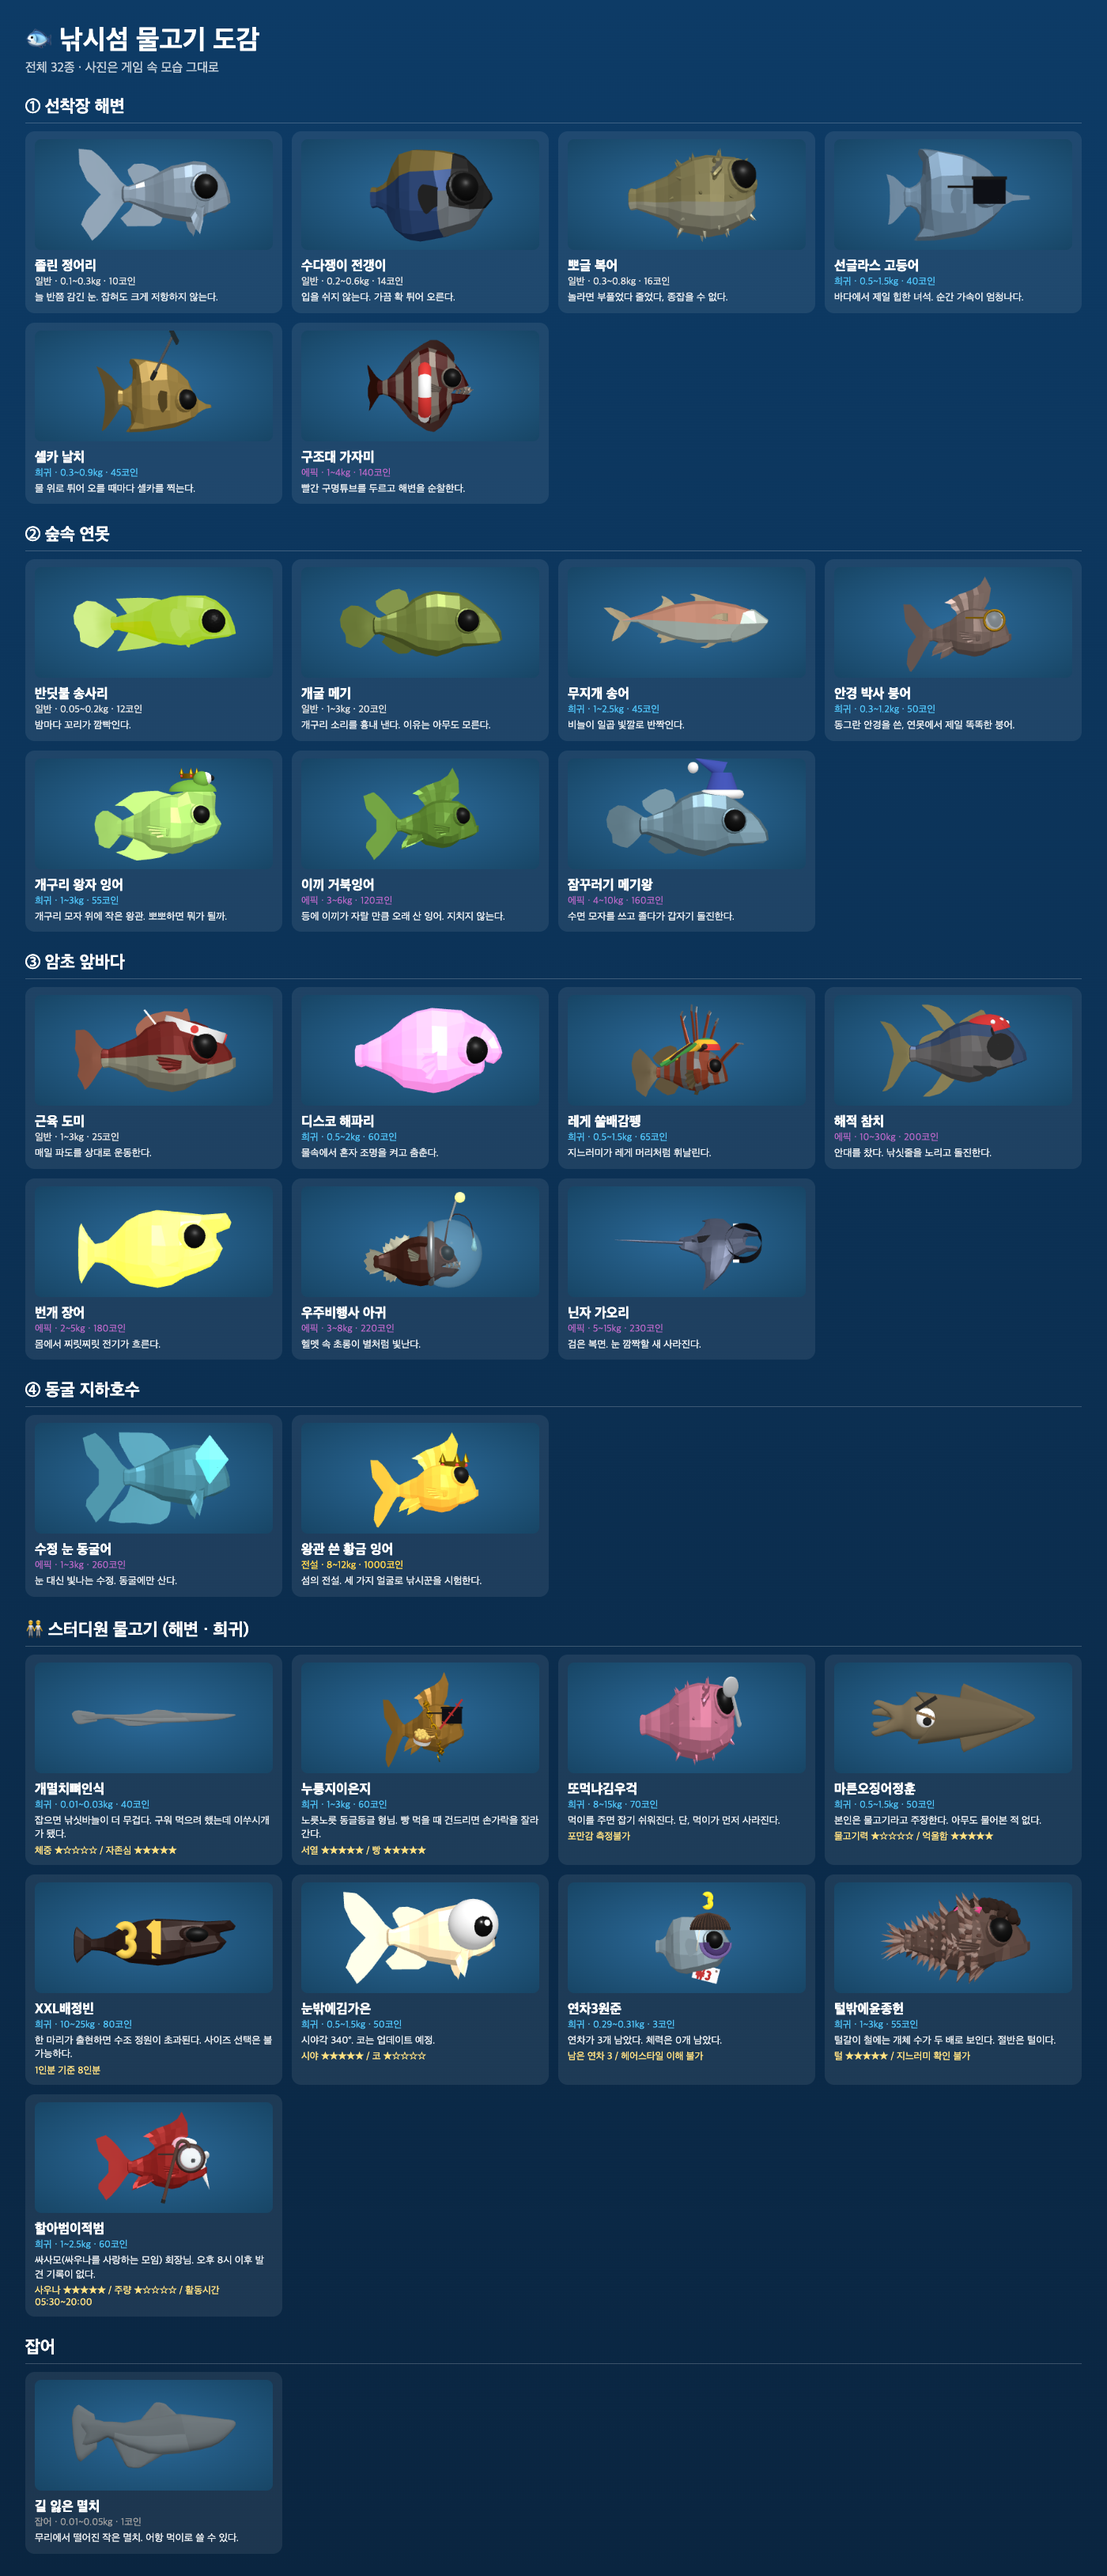
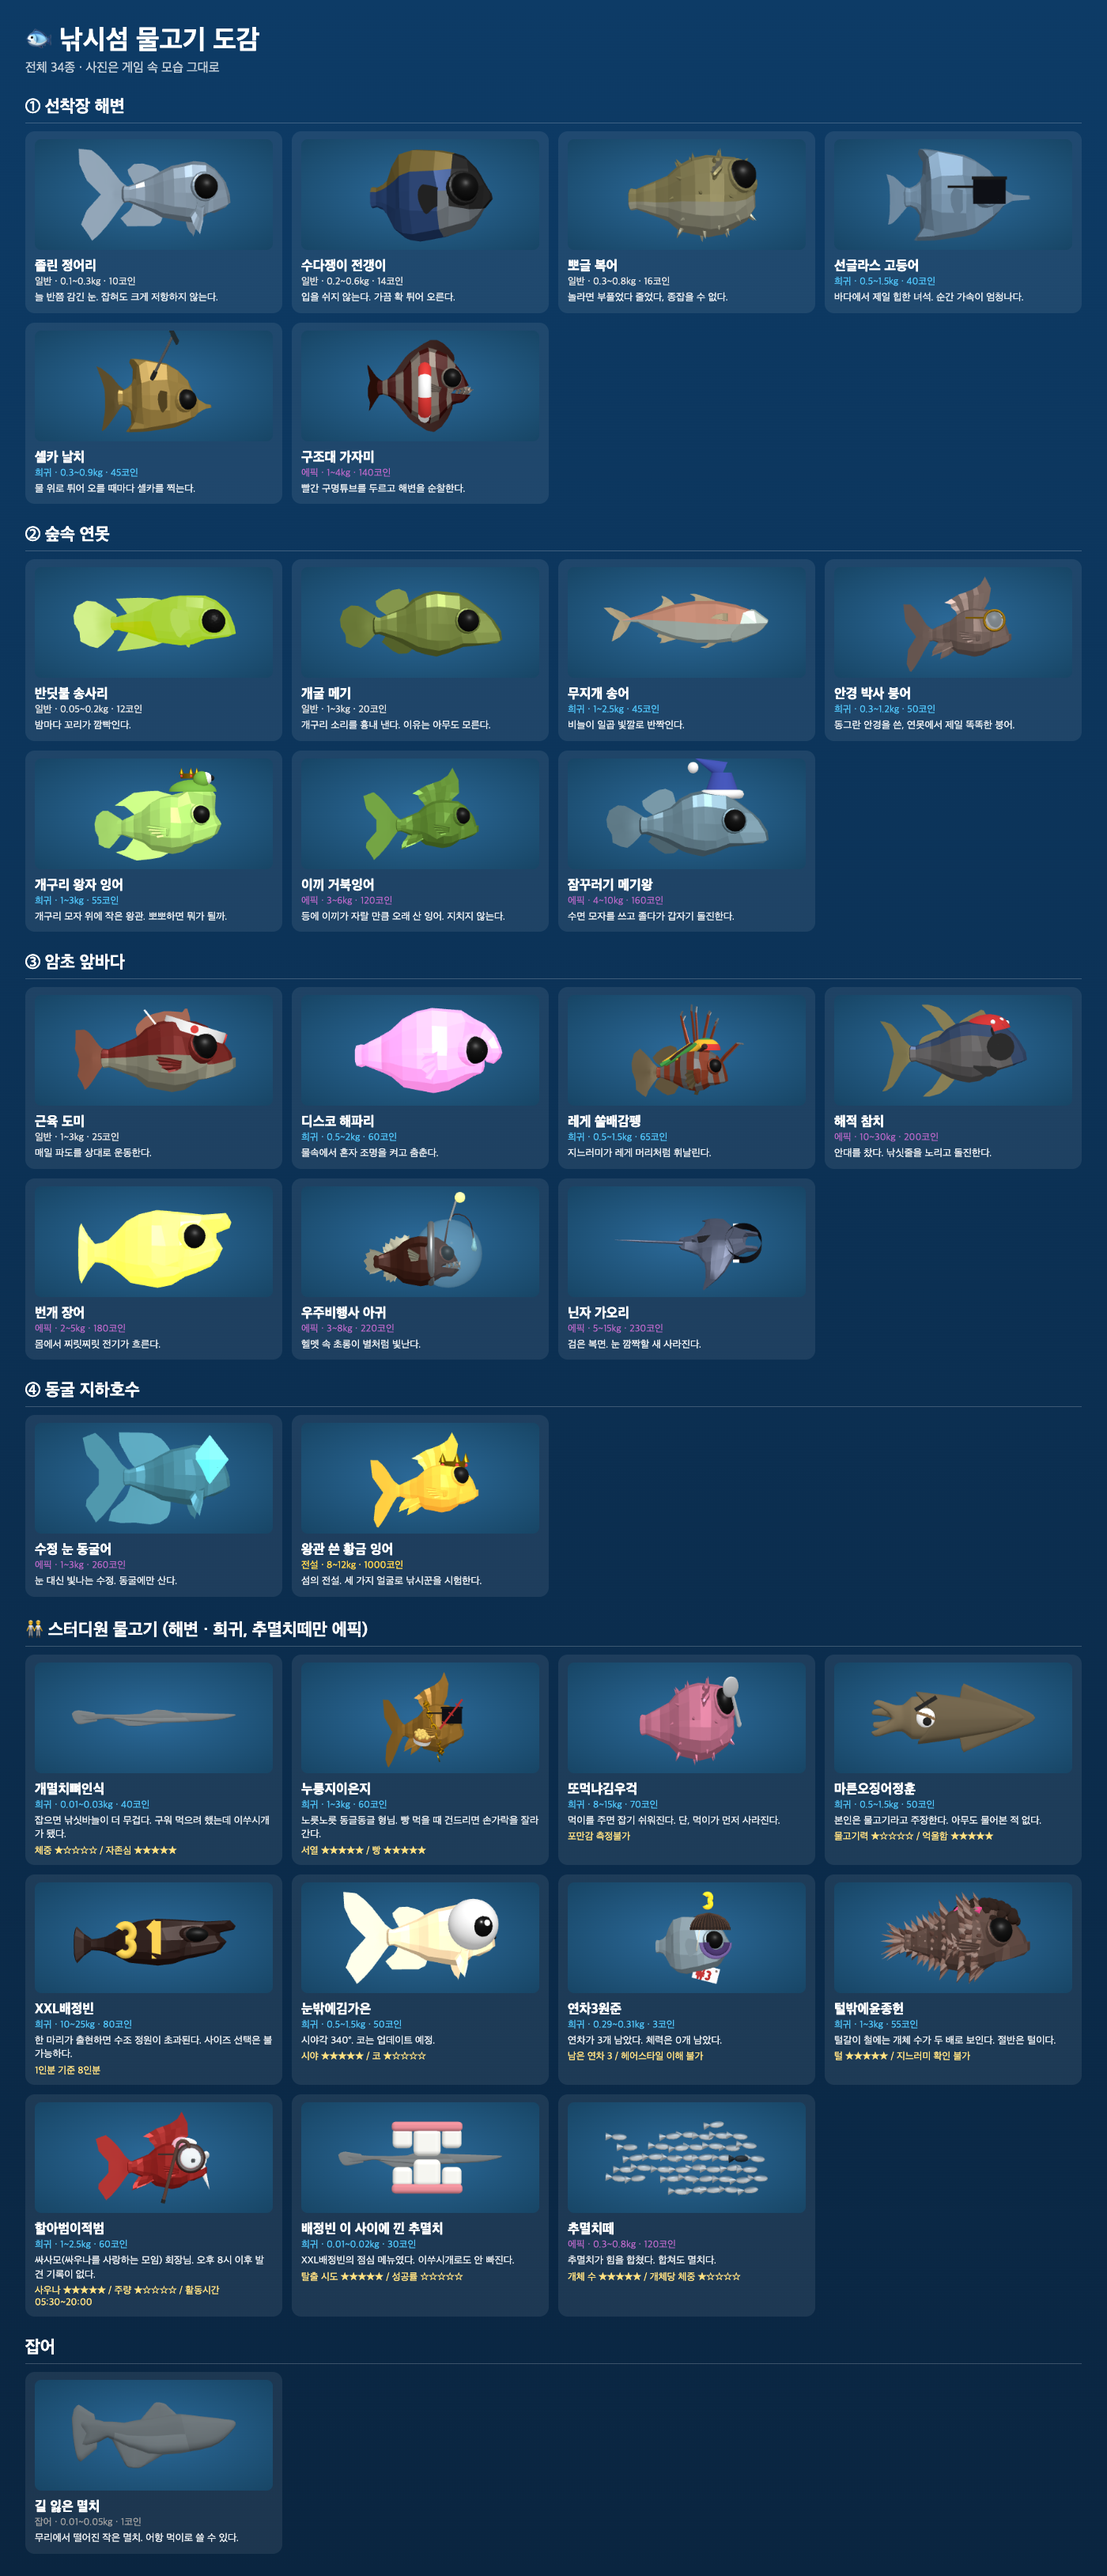
docs: 물고기 도감에 추멸치 파생 2종 추가
- fish-dex 사진 2장, README 표·확률 설명, 한 장짜리 도감 그림을 34종으로 갱신
- 설계 문서 8.4 에 두 어종과 해변 에픽 확률 변화를 적는다

Changed region(s): [[0.2457, 0.8063, 0.7371, 0.8993], [0.2457, 0.6202, 0.3379, 0.6512]]

diff --git a/docs/fish-dex/README.md b/docs/fish-dex/README.md
@@ -1,11 +1,12 @@
 # 낚시섬 물고기 도감
 
-섬에 사는 물고기 **32종** 전체 목록이에요. 사진은 게임 안의 사진 기능(`fishThumbnail`)으로 그린 것과 같아요.
+섬에 사는 물고기 **34종** 전체 목록이에요. 사진은 게임 안의 사진 기능(`fishThumbnail`)으로 그린 것과 같아요.
 
 - 희귀도: 잡어 · 일반 · 희귀 · 에픽 · 전설
 - 싸움 방식: **돌진**(가끔 세게 확 당김) · **지구전**(약하게 자주 당김) · **변덕**(언제 얼마나 당길지 모름) · 전설은 셋을 번갈아
 - 판매가는 무게가 무게 범위의 가운데일 때 기본가이고, 무거울수록 비싸요
 - 확률: 구역마다 일반 60 · 희귀 24 · 에픽 8 · 잡어 8 비율을 같은 희귀도 어종끼리 나눠 가져요(세게 던지면 희귀·에픽이 늘어요). 동굴은 전설이 주로 나와요
+- 해변 에픽은 구조대 가자미와 추멸치떼 둘이 해변 에픽 몫(8)을 반씩 나눠요. 해변 희귀는 13종이 희귀 몫(24)을 나눠요
 
 ## ① 선착장 해변
 
@@ -49,7 +50,7 @@
 | <img src="images/crystal-eye-cavefish.png" width="160"> | **수정 눈 동굴어**<br>`crystal-eye-cavefish` | 에픽 | 변덕 · 힘 8 | 1~3kg | 260 | 눈 대신 빛나는 수정. 동굴에만 산다. |
 | <img src="images/golden-crown-carp.png" width="160"> | **왕관 쓴 황금 잉어**<br>`golden-crown-carp` | 전설 | 세 가지를 번갈아 · 힘 10 | 8~12kg | 1000 | 섬의 전설. 세 가지 얼굴로 낚시꾼을 시험한다. |
 
-## 🧑🤝🧑 스터디원 물고기 (선착장 해변 · 희귀)
+## 🧑🤝🧑 스터디원 물고기 (선착장 해변 · 희귀, 추멸치떼만 에픽)
 
 스터디원들을 닮은 물고기들이에요. 이름 말장난 + 외형 + 쓸데없이 진지한 도감 설명이 포인트.
 
@@ -64,6 +65,8 @@
 | <img src="images/three-wonjun.png" width="160"> | **연차3원준**<br>`three-wonjun` | 희귀 | 변덕 · 힘 3 | 0.29~0.31kg | 3 | 연차가 3개 남았다. 체력은 0개 남았다.<br>_남은 연차 3 / 헤어스타일 이해 불가_ |
 | <img src="images/hairy-ajumma-jongheon.png" width="160"> | **털밖에윤종헌**<br>`hairy-ajumma-jongheon` | 희귀 | 지구전 · 힘 5 | 1~3kg | 55 | 털갈이 철에는 개체 수가 두 배로 보인다. 절반은 털이다.<br>_털 ★★★★★ / 지느러미 확인 불가_ |
 | <img src="images/grandpa-escapee.png" width="160"> | **할아범이적범**<br>`grandpa-escapee` | 희귀 | 돌진 · 힘 5 | 1~2.5kg | 60 | 싸사모(싸우나를 사랑하는 모임) 회장님. 오후 8시 이후 발견 기록이 없다.<br>_사우나 ★★★★★ / 주량 ★☆☆☆☆ / 활동시간 05:30~20:00_ |
+| <img src="images/stuck-anchovy-chu.png" width="160"> | **배정빈 이 사이에 낀 추멸치**<br>`stuck-anchovy-chu` | 희귀 | 변덕 · 힘 2 | 0.01~0.02kg | 30 | XXL배정빈의 점심 메뉴였다. 이쑤시개로도 안 빠진다.<br>_탈출 시도 ★★★★★ / 성공률 ☆☆☆☆☆_ |
+| <img src="images/anchovy-school-chu.png" width="160"> | **추멸치떼**<br>`anchovy-school-chu` | 에픽 | 변덕 · 힘 6 | 0.3~0.8kg | 120 | 추멸치가 힘을 합쳤다. 합쳐도 멸치다.<br>_개체 수 ★★★★★ / 개체당 체중 ★☆☆☆☆_ |
 
 ## 잡어
 

diff --git a/docs/superpowers/specs/2026-10-22-aquarium-view-fish-variety-design.md b/docs/superpowers/specs/2026-10-22-aquarium-view-fish-variety-design.md
@@ -145,3 +145,13 @@ public/models/            (추가) 새 CC0 물고기 모델, CREDITS.md
 | grandpa-escapee | 할아범이적범 | 사우나에서 막 나온 새빨간 얼굴, 양머리 수건, 흰 수염, 돋보기안경, 지팡이 | 싸사모(싸우나를 사랑하는 모임) 회장님. 오후 8시 이후 발견 기록이 없다. | 사우나 ★★★★★ / 주량 ★☆☆☆☆ / 활동시간 05:30~20:00 | 돌진, 힘 5 |
 
 - 무게·가격이 표에 없는 것은 희귀 기본값(0.5~2kg, 50코인 안팎)으로 정한다.
+
+### 8.4 추가: 추멸치 파생 2종 (2026-10-23 요청)
+
+| id | 이름 | 희귀도 | 생김새 | 설명 | 쓸데없는 스탯 | 특징 |
+|---|---|---|---|---|---|---|
+| stuck-anchovy-chu | 배정빈 이 사이에 낀 추멸치 | 희귀 | 개멸치뼈인식처럼 실같이 얇은 은빛 몸(0.9배)을 큰 앞니 한 쌍이 위아래에서 물고 있다 (새 소품 `clampTeeth`: 둥근 흰 앞니 + 양옆 짧은 이 + 분홍 잇몸) | XXL배정빈의 점심 메뉴였다. 이쑤시개로도 안 빠진다. | 탈출 시도 ★★★★★ / 성공률 ☆☆☆☆☆ | 0.01~0.02kg, 30코인, 변덕, 힘 2 |
+| anchovy-school-chu | 추멸치떼 | 에픽 | 작은 멸치 40마리 안팎이 갈라진 꼬리·타원 몸통의 큰 물고기 모양으로 모였다, 눈 자리는 까만 대장 멸치 (새 소품 `anchovySchool`: 원래 몸은 숨기고 멸치 한 마리 지오메트리를 나눠 쓴다. 멸치마다 가까운 뼈에 붙어 몸을 따라 휘고 저마다 꼬리를 흔든다) | 추멸치가 힘을 합쳤다. 합쳐도 멸치다. | 개체 수 ★★★★★ / 개체당 체중 ★☆☆☆☆ | 0.3~0.8kg, 120코인, 변덕, 힘 6 |
+
+- 확률: 해변 에픽은 원래 구조대 가자미 혼자였다. 희귀도 묶음 방식이라 해변 에픽 몫 전체는 그대로이고 가자미와 추멸치떼가 반씩 나눈다 (가자미 확률은 절반이 된다). 해변 희귀는 13종이 나눠 가진다.
+- `HIDES_PART` 에 몸 전체(`'body'`)를 숨기는 값을 더했다 (멸치떼). 사진은 두 어종 모두 소품까지 틀에 다 넣는다.
